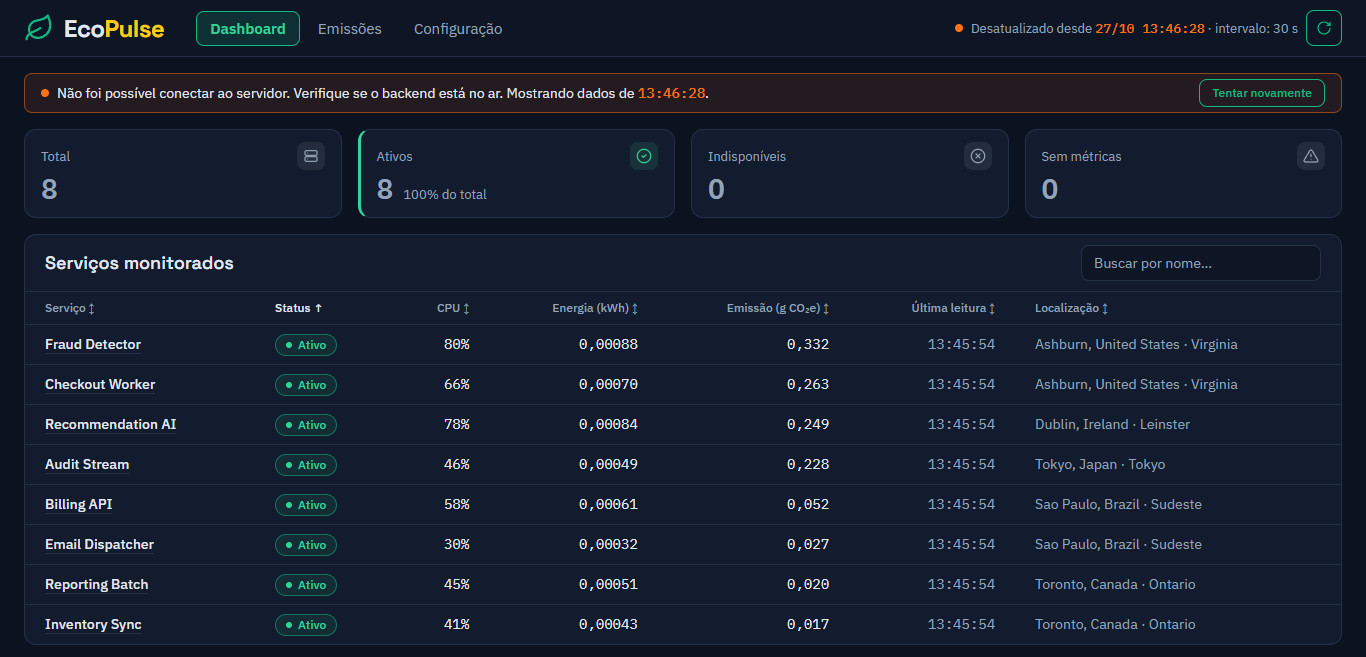
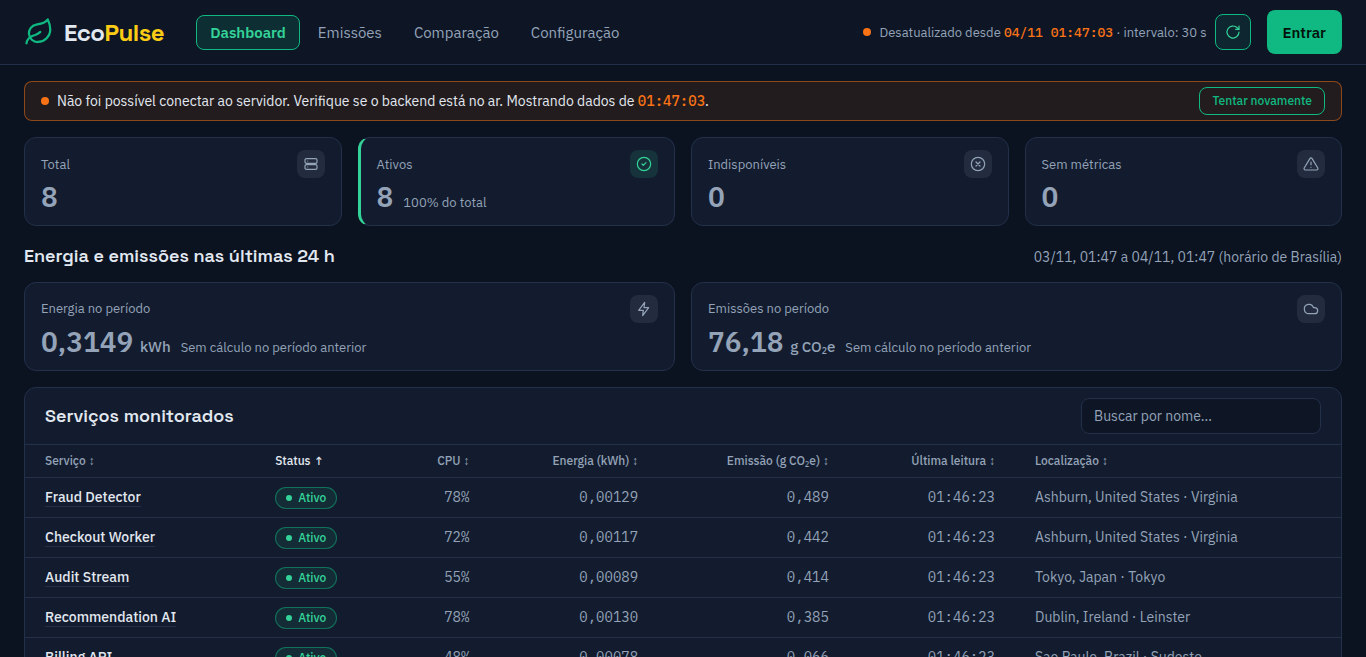
docs(docs): registra a tabela com dado antigo apagado (#261) [RF09]
frontend/README.md: regra do número que não é atual, removido no fim
e passo 7 do "Como verificar". README raiz: print da falha refeito
com o backend parado em 04/11/2026 e a legenda atualizada.

diff --git a/frontend/README.md b/frontend/README.md
@@ -94,6 +94,7 @@ Lidas do `.env` da **raiz** do repositório (modelo em `.env.example`; `envDir: 
 
 - As colunas "Energia (kWh)" e "Emissão (g CO₂e)" mostram o resultado da **última coleta** de cada serviço (cerca de 30 s de operação), calculado pelo backend desde o #139. Sem cálculo disponível (por exemplo, com a API de carbono fora), aparece "—", nunca zero.
 - Energia e emissão têm resolução fixa por coluna (`formatFixed` em `src/utils/format.ts`): kWh com 5 casas e g com 3, nas mesmas unidades da API. As vírgulas ficam alinhadas e o número não muda de tamanho a cada leitura. 0,04 g aparece como **0,040** (antes, "0,0"). Um valor positivo menor que a resolução aparece como "< 0,001" (g) ou "< 0,00001" (kWh), nunca como zero; zero calculado aparece "0,000"; sem cálculo, continua "—".
+- Número que não é atual fica em `--muted` (#261): o da linha de um serviço **removido** (saiu da lista do agregador) e, quando a última busca falha, os de todas as linhas, como os cards de estado. Removido fica sempre no fim da tabela, qualquer que seja a coluna da ordenação, para o último dado dele não liderar a coluna. A **Última leitura** mostra só a hora quando é de hoje e a data com a hora quando é de outro dia (`formatTimeOrDayTime`).
 - A tabela não repete o `period` de `GET /api/services`: a coluna **Última leitura** já diz de quando são os valores da linha: os da coleta, não um total.
 
 ## Página Emissões (#190)
@@ -208,7 +209,7 @@ npm run mock        # backend falso em http://localhost:3000 (desenvolvimento)
 4. Na raiz, `cp .env.example .env`. Em um terminal `npm run mock`; em outro `npm run dev` → a faixa some e a tabela mostra os serviços de `GET /api/services` (o terminal do mock registra a chamada como `GET /services`, sem o prefixo `/api`). Abaixo dos cards de estado, o painel **Energia e emissões nas últimas 24 h** mostra os totais do mock com a variação, sem nenhum aviso de erro.
 5. Na tabela: cada serviço aparece com região, cidade/país e status (Ativo, Indisponível, Sem métricas); sem métrica aparece "—". Localização mostra só as partes informadas (sem ", null"); sem nenhuma, aparece "—" e o serviço fica no fim ao ordenar por Localização. Com o backend real há um quarto status, **Removido**: o serviço saiu da lista de `GET /services` do agregador na última descoberta do worker e volta a Ativo quando reaparece. O backend falso não tem esse caso.
 6. Digitar "check" na busca → só **Checkout Worker**; buscar algo inexistente → "Nenhum serviço com … no nome".
-7. Ao abrir, a tabela já vem ordenada por gravidade: Status do mais grave para o menos grave (Indisponível, Sem métricas, Ativo, Removido), com desempate pela maior emissão. O título **Status** mostra ↑ (`aria-sort="ascending"`), e as duas primeiras linhas são **Email Dispatcher** (Indisponível) e **Inventory Sync** (Sem métricas). Clicar nos títulos das colunas (Serviço, Status, CPU, Energia, Emissão, Última leitura, Localização) → ordena; clicar de novo inverte; serviços sem métrica ficam sempre no fim. Localização ordena pela região (depois país e cidade).
+7. Ao abrir, a tabela já vem ordenada por gravidade: Status do mais grave para o menos grave (Indisponível, Sem métricas, Ativo, Removido), com desempate pela maior emissão. O título **Status** mostra ↑ (`aria-sort="ascending"`), e as duas primeiras linhas são **Email Dispatcher** (Indisponível) e **Inventory Sync** (Sem métricas). Clicar nos títulos das colunas (Serviço, Status, CPU, Energia, Emissão, Última leitura, Localização) → ordena; clicar de novo inverte; serviços sem métrica ficam sempre no fim. Localização ordena pela região (depois país e cidade). Ordenar por **Emissão**, nos dois sentidos → um serviço **Removido** fica sempre na última linha, com os números em cinza. Com a tela aberta, parar o backend (`docker compose stop backend`) e clicar em **Atualizar agora** → além da faixa laranja, os números da tabela ficam em cinza; `docker compose start backend` e **Tentar novamente** → voltam à cor normal (#261).
 8. `MOCK_SERVICES=vazio npm run mock` e recarregar → "Nenhum serviço monitorado ainda".
 9. `MOCK_SERVICES=erro npm run mock` e recarregar → sem nenhum dado na tela, aparecem dois avisos grandes "Falha simulada no backend falso." (a mensagem vem do corpo do erro) com **Tentar novamente**: o da lista de serviços e o do painel de indicadores, que também falha, como no backend real com o banco fora do ar. Nenhum card nem tabela.
 10. Com dados carregados, o cabeçalho mostra o selo **"Última atualização: dd/mm HH:MM:SS"** com um ponto verde pulsando (sistema ativo); com "reduzir movimento" ligado no sistema, o ponto fica parado. A cada horário novo no selo, o logo pulsa uma vez: a folha vira uma linha de batimento com brilho neon e volta (cerca de 2,4 s). Ele não pulsa quando a atualização falha, em **Configuração** (sem polling) nem com "reduzir movimento", e dois cliques seguidos em **Atualizar agora** não reiniciam o pulso no meio.

diff --git a/README.md b/README.md
@@ -82,7 +82,7 @@ O desenvolvimento acontece na branch `develop`; cada funcionalidade entra nesta 
 
   ![Dashboard depois de uma atualização com falha](docs/img/sprint-2-atualizacao-automatica.png)
 
-  _Backend parado em 27/10/2026 (mesmo efeito de `docker compose stop backend`): depois de um intervalo, a faixa laranja compacta diz "Mostrando dados de 13:46:28" e oferece **Tentar novamente**, as 8 linhas da tabela continuam visíveis e o selo fica laranja ("Desatualizado desde …") (#203). Sem nenhum dado na tela, aparece o aviso de erro grande._
+  _Backend parado em 04/11/2026 (mesmo efeito de `docker compose stop backend`): na atualização seguinte, a faixa laranja compacta diz "Mostrando dados de 01:47:03" e oferece **Tentar novamente**, o selo fica laranja ("Desatualizado desde …") e a tabela continua na tela com os números em cinza, como os cards, para não parecerem atuais (#203, #261). Sem nenhum dado na tela, aparece o aviso de erro grande._
 
 - **RF01, RF02, RF03, RF04 — Descoberta e coleta periódica (#95, #98, #99):** o backend descobre os serviços no agregador de métricas, consulta `/metrics/{id}` e grava o histórico no PostgreSQL; o _worker_ roda em segundo plano e reconcilia serviços que aparecem, ficam indisponíveis ou voltam a exportar métricas.
 
